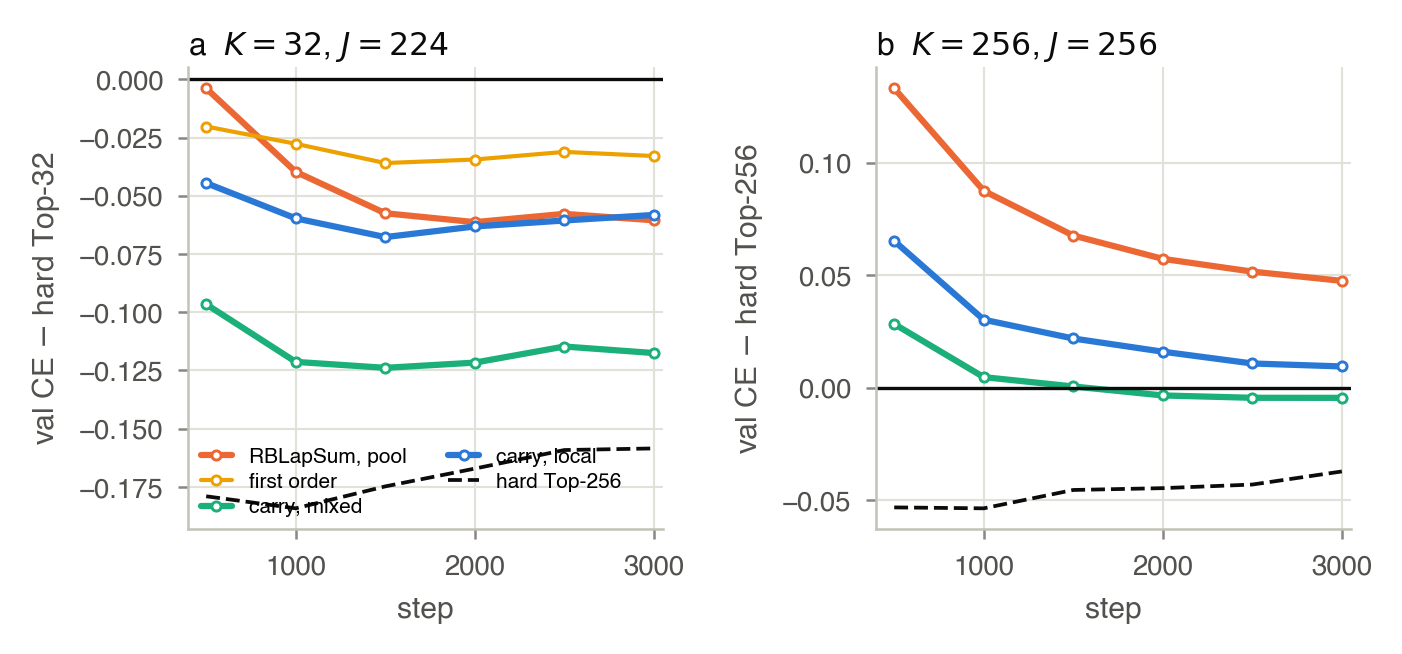
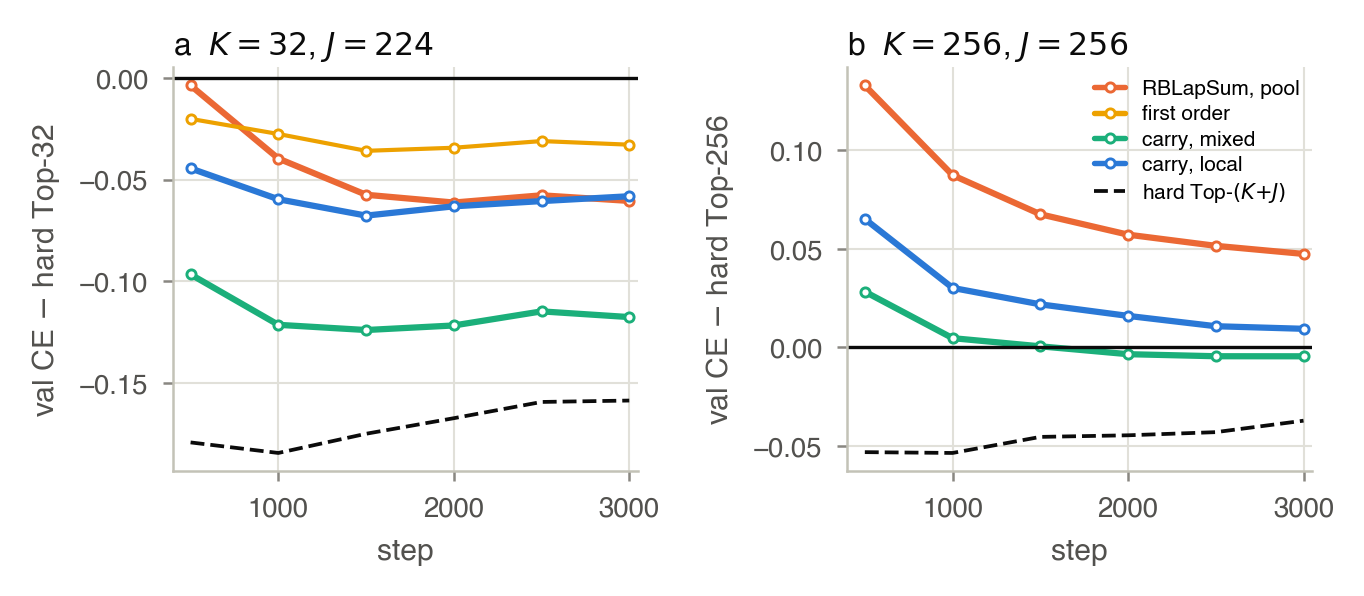
carry note: compressed theory, two-panel figures, K=256 mixed run statistics

diff --git a/docs/carry-surrogate.tex b/docs/carry-surrogate.tex
@@ -33,18 +33,17 @@ Runs \code{be\_cr\_*} (box bergen), configs \code{configs/cr\_kj/carry/}, scopes
 \section{The problem}
 
 With the code carried between blocks (\code{code\_residual}) hard Top-\(K'\) gains \(0.06\)--\(0.075\) nats at every
-\(K'\), while RBLapSum (\(K\) active, pool \(K{+}J\)) gains \(-0.03\) to \(+0.015\): at a matched active count it is
-worth \(0.047\) at \(K=32\) and loses \(0.02\)--\(0.03\) at \(K=128, 256\), no cell reaches hard Top-\((K{+}J)\), and its
-backward is the unstable part of the grid (\code{docs/kj-vs-hard-topk-code-residual.tex}).  The first-order scope
-removes the instability with a second backward pass and is \emph{worse} than the unmodified surrogate at every
-\(K=32\) cell (\(+0.007\) to \(+0.017\) at 20k).  This note locates the conflict between the surrogate and the carry
-and proposes the smallest change that removes it, at no cost.
+\(K'\) and RBLapSum (\(K\) active, pool \(K{+}J\)) gains \(-0.03\) to \(+0.015\): at a matched active count the
+surrogate is worth \(0.047\) at \(K=32\), loses \(0.02\)--\(0.03\) at \(K=128,256\), and its backward is the unstable
+part of the grid (\code{docs/kj-vs-hard-topk-code-residual.tex}).  The first-order scope removes the instability with
+a second backward pass and is \emph{worse} than the unmodified surrogate at every \(K=32\) cell (\(+0.007\) to
+\(+0.017\) at 20k).  This note locates the conflict and removes it at no cost.
 
 \section{Where the probabilities act}
 
 Gate \(\ell\) reads \(u_\ell=c_\ell+v_\ell\) (carried code plus the block's encoded contribution) and outputs
 \(c_{\ell+1}=M_\ell u_\ell\), \(M_\ell\) the Top-\(K\) mask.  Its output has two consumers, the carry
-\(u_{\ell+1}=c_{\ell+1}+v_{\ell+1}\) (a skip path) and the read \(x_{\ell+1}=\mathrm N(D_\ell c_{\ell+1})\) (a branch), so
+\(u_{\ell+1}=c_{\ell+1}+v_{\ell+1}\) (a skip path) and the read \(x_{\ell+1}=\mathrm N(D_\ell c_{\ell+1})\) (a branch):
 \begin{equation}
   \frac{\partial\mathcal L}{\partial u_\ell}=M_\ell\bigl(g^{\rm c}_{\ell+1}+r_{\ell+1}\bigr),\qquad
   g^{\rm c}_{\ell+1}=\frac{\partial\mathcal L}{\partial u_{\ell+1}},\quad
@@ -52,20 +51,19 @@ Gate \(\ell\) reads \(u_\ell=c_\ell+v_\ell\) (carried code plus the block's enco
   \label{eq:hard}
 \end{equation}
 (at the last gate \(r\) is the unembedding's gradient).  In the stream-carried stack the gate has only the second
-consumer: everything block \(\ell{+}1\) does, its own gate included, goes through \(D_\ell\).  RBLapSum relaxes the
-gate as a whole, \(M_\ell\to M_\ell+S_\ell\) with the \code{through\_rank\_kappa} support term \(S_\ell\) (kernel
+consumer: everything block \(\ell{+}1\) does, its own gate included, goes through \(D_\ell\).  RBLapSum relaxes the gate
+as a whole, \(M_\ell\to M_\ell+S_\ell\) with the \code{through\_rank\_kappa} support term \(S_\ell\) (kernel
 \(\kappa_i=e^{-|s_i-b|/T}/2T\); on the support \(S_{ii}=|u_i|\kappa_i\approx b/2T\) at the boundary).  In the stream
-stack \(S_\ell\) acts on \(r_{\ell+1}\) alone, and what reaches gate \(\ell{-}1\) has passed through \(E_\ell\), the
-block and \(D_{\ell-1}\), which mix the coordinates.  In the code stack it also acts on \(g^{\rm c}_{\ell+1}\), which
-already contains \(S_{\ell+1}g^{\rm c}_{\ell+2}\): along a coordinate near the boundary the backward multiplies
-\(1+|u|\kappa\) per gate.  The carry is a residual connection in code space; a residual connection trains because its
-backward is the identity, and a relaxation placed on the skip path compounds.  The conflict is \emph{where} the
-probabilities act, not the kernel: the same gates in the stream stack were never on a skip path.
+stack \(S_\ell\) acts on \(r_{\ell+1}\) alone and what reaches gate \(\ell{-}1\) has passed through \(E_\ell\), the block
+and \(D_{\ell-1}\), which mix the coordinates.  In the code stack it also acts on \(g^{\rm c}_{\ell+1}\), which already
+contains \(S_{\ell+1}g^{\rm c}_{\ell+2}\): along a coordinate near the boundary the backward multiplies \(1+|u|\kappa\)
+per gate.  The carry is a residual connection in code space, trainable because its backward is the identity; a
+relaxation placed on the skip path compounds.  The conflict is \emph{where} the probabilities act, not the kernel.
 
 \section{The carry-aware surrogate}
 
-Keep the skip path hard and relax the branch.  The gate's output is split into the copy the next gate carries and the
-copy the decoder reads (\code{\_CarryReadSplit}; forward and inference unchanged), and the backward is
+Keep the skip path hard, relax the branch: the gate's output is split into the copy the next gate carries and the
+copy the decoder reads (forward and inference unchanged), and
 \begin{equation}
   \frac{\partial\mathcal L}{\partial u_\ell}=M_\ell\bigl(g^{\rm c}_{\ell+1}+r_{\ell+1}\bigr)+S_\ell^{\!\top}\hat g_{\ell+1},
   \qquad
@@ -73,21 +71,21 @@ copy the decoder reads (\code{\_CarryReadSplit}; forward and inference unchanged
   \label{eq:carry}
 \end{equation}
 with \(H_\ell=M_\ell(r_{\ell+1}+H_{\ell+1})\) the downstream read gradients a coordinate reaches along the hard carry,
-\(R_\ell=r_{\ell+1}+\rho R_{\ell+1}\) all downstream reads weighted by a survival factor \(\rho\) per gate, and
-\(H=R=0\) above the last gate.  The support term is driven by read gradients only, so no kernel sees another gate's
-support term through the carry: the exponential products are gone, the terms of the gates above still reach gate
-\(\ell\) added through \(M_\ell\), and carry and update receive one gradient (R1 of
-\code{docs/rblapsum-code-residual.tex}).  The cost is two per-coordinate sums along the backward, no second pass.
-The drivers are the first-order loss change of one flip at gate \(\ell\) under three models of what follows: a flip
-changes \(c_{\ell+1,i}\) by \(\pm u_{\ell,i}\), which block \(\ell{+}1\) reads, and so do later blocks while the coordinate
-stays in the code.  \emph{Local} counts the next read only -- the stream stack's logic, and exactly the gradient of a
-model whose decoder reads a relaxed gate while the carry is hard.  \emph{Hard} follows the coordinate's actual
-downstream masks (an evicted feature's remaining run; for an inactive candidate almost always nothing).
-\emph{Persistent} assumes the entering coordinate survives each further gate with probability \(\rho\) (\(\rho=1\):
-to the end).  The \emph{mixed} scope uses hard for the active members and persistent for the inactive ones, the
-natural model on each side; \(\rho\) is measured in Section~\ref{sec:runs}.  Against the first-order estimator: that
-one needs the fully hard gradient at every gate, hence a second pass; here the carry is where the gradient is taken
-hard, and the reads still carry the gates above through the branch, as in the stream stack.
+\(R_\ell=r_{\ell+1}+\rho R_{\ell+1}\) every downstream read with a survival factor \(\rho\) per gate, \(H=R=0\) above
+the last gate.  The support term is driven by read gradients only, so no kernel sees another gate's support term
+through the carry: the products are gone, the terms of the gates above still reach gate \(\ell\), added, through
+\(M_\ell\), and carry and update receive one gradient (R1 of \code{docs/rblapsum-code-residual.tex}).  The cost is two
+per-coordinate sums along the backward; no second pass.  The drivers are the first-order loss change of one flip at
+gate \(\ell\) -- \(c_{\ell+1,i}\) changes by \(\pm u_{\ell,i}\), which block \(\ell{+}1\) reads, and later blocks read while
+the coordinate stays in the code -- under three models of what follows.  \emph{Local} counts the next read only (the
+stream stack's logic; exactly the gradient of a model whose decoder reads a relaxed gate while the carry is hard).
+\emph{Hard} follows the actual downstream masks (an evicted feature's remaining run; for an inactive candidate almost
+always nothing).  \emph{Persistent} lets the entering coordinate survive each further gate with probability \(\rho\).
+The \emph{mixed} scope uses hard for the active members and persistent for the inactive ones; \(\rho\) is measured
+below.  Unlike the first-order estimator, which needs the fully hard gradient at every gate and hence a second pass,
+the carry is where the gradient is taken hard, and the reads still carry the gates above through the branch, as in the
+stream stack.  (\code{rblapsum\_surrogate\_scope=carry\_local|carry\_hard|carry\_persistent|carry\_mixed},
+\code{rblapsum\_carry\_decay}=\(\rho\).)
 
 \section{Measurements}
 
@@ -176,7 +174,8 @@ model's code is the hard model's again -- one-gate survival \(0.57\), turnover \
 \(0.94\) (hard: \(0.62\), \(28\%\), \(0.93\); \code{pool}: \(0.40\), \(46\%\), \(0.89\)) -- and its gradient norm never
 exceeded 1.  The mixed scope goes further: \(+0.005\) at step 1000, below hard Top-256 from step 2000 and
 \(-0.0045\) at 3000 (\(1.736\) against \(1.741\)) -- a surrogate with 256 active features ahead of the hard model with
-the same count, which no code-carried cell of the grid achieved -- with hard Top-512 at \(-0.037\).
+the same count, which no code-carried cell of the grid achieved -- with hard Top-512 at \(-0.037\); its code is
+the hard model's too (survival \(0.61\), turnover \(30\%\), \(17\%\) of the final code carried from gate 0).
 \PH{K=128; the 10k continuations}
 
 \begin{figure}[t]
@@ -210,14 +209,30 @@ read at step 3000.  Bold: below every other surrogate of the row.}
 \section{What the measurements show}
 
 \textbf{The conflict is the placement, not the kernel.}  RBLapSum relaxes a gate whose output, in the code-carried
-stack, is also a skip connection; the relaxation is multiplied along the skip path and grows as \((1+b/2T)^{L}\)
-(Fig.~\ref{fig:init}).  Putting the probabilities where they were in the stream-carried stack, on what the decoder
-reads, and leaving the carry's backward the mask, removes the product exactly, in one backward pass, and gives the
-carry and the update one gradient.  \PH{training evidence}
+stack, is also a skip connection, and the relaxation is multiplied along the skip path, \((1+b/2T)\) per gate
+(Fig.~\ref{fig:init}).  Putting the probabilities where they were in the stream-carried stack -- on what the decoder
+reads -- and leaving the carry's backward the mask removes the product exactly, in one backward pass, with one gradient
+for carry and update.  Trained, the local scope keeps the unmodified surrogate's whole gain at \(K=32\) (first order,
+which also removes the product but at the price of a second pass, keeps half of it) and removes four fifths of its
+loss at \(K=256\), without a gradient spike in either cell.
 
-\textbf{The carry is used by a subset, and the unmodified surrogate trains it away.}  \PH{runs of the carry scopes}
+\textbf{The carry gives the surrogate something the stream stack could not: a downstream for the entry term.}  In
+the stream stack a candidate that enters at gate \(\ell\) is re-encoded by gate \(\ell{+}1\), so the next read is all
+there is to evaluate it against.  In the code stack an entering feature is carried, and the first-order value of
+letting it in is the sum of the reads it would reach.  The mixed scope evaluates the inactive candidates on that sum
+(\(\rho=1\)) and the active members on the reads their run actually reaches, and it doubles the gain at \(K=32\)
+(\(-0.118\): 32 active features at the loss of hard Top-128) and turns the loss at \(K=256\) into a gain
+(\(-0.005\) below hard Top-256, a model with the same active count).  Its surrogate energy equals the unmodified
+backward's (\(\sigma=0.74\) against \(0.70\) at \(K=32\)), delivered as a sum of single-flip terms instead of a
+product: the unmodified backward was not too strong, it was multiplying.
 
-\PH{large K}
+\textbf{The surrogate-trained model uses the carry only when the surrogate leaves it alone.}  The trained hard
+models carry about half of their support from gate to gate (one-gate survival \(0.5\)--\(0.6\), \(26\)--\(39\%\)
+turnover); the \code{pool}-trained ones re-select \(46\)--\(70\%\) of it at every gate and end with the stream stack's
+code, which is why the carry was worth nothing to them.  Every carry-scope model has the hard model's survival and
+turnover (Fig.~\ref{fig:runs}): the surrogate's support signal and the carry's persistence add instead of
+competing, and the measured survival (\(\rho\approx0.5\)) is also the natural value for the persistent chain
+(\PH{cm05}).
 
 \textbf{Scope.}  One seed, one configuration family (8 layers, \(N=1536\), \(T=2\), no output norm), screens of
 3000 steps with step-matched 20k-step baselines trained on a different machine of the same GPU generation; the

diff --git a/scripts/plot_carry.py b/scripts/plot_carry.py
@@ -74,46 +74,34 @@ def save(fig, name):
 # Figure 1: the backward along the carried code at initialization
 # --------------------------------------------------------------------------- #
 def fig_init():
-    fig, axes = plt.subplots(1, 3, figsize=(7.1, 2.0), gridspec_kw={"wspace": 0.42})
-    for ax, (kj, title) in zip(axes[:2], [("k32_j224", r"a  $K{=}32$, $J{=}224$, $T{=}2$"),
-                                          ("k256_j256", r"b  $K{=}256$, $J{=}256$, $T{=}2$")]):
+    fig, axes = plt.subplots(1, 2, figsize=(5.0, 1.75), gridspec_kw={"wspace": 0.4})
+    for ax, (kj, title) in zip(axes, [("k32_j224", r"a  $K{=}32$, $J{=}224$"),
+                                      ("k256_j256", r"b  $K{=}256$, $J{=}256$")]):
         hard = load(DATA, "init", f"init_{kj}_hard.json")
         h = [g["code_grad_rms"] for g in hard["gates"]]
         for key in ("pool", "fo", "ch", "cp", "cm", "cl"):
-            d = load(DATA, "init", f"init_{kj}_{key}.json")
-            if d is None:
-                continue
-            lab, color, ls = STYLE[key]
-            y = [g["code_grad_rms"] / hh for g, hh in zip(d["gates"], h)]
-            ax.plot(range(len(y)), y, ls, color=color, lw=1.5 if key in ("pool", "cl", "cm") else 1.0,
-                    label=lab)
+            for suffix, ls in (("", STYLE[key][2]), ("_t1", ":")):
+                if suffix and key not in ("pool", "cm", "cl"):
+                    continue
+                d = load(DATA, "init", f"init_{kj}_{key}{suffix}.json")
+                if d is None:
+                    continue
+                lab, color, _ = STYLE[key]
+                y = [g["code_grad_rms"] / hh for g, hh in zip(d["gates"], h)]
+                ax.plot(range(len(y)), y, ls, color=color,
+                        lw=1.5 if key in ("pool", "cl", "cm") and not suffix else 1.0,
+                        label=(lab if not suffix else None) if kj == "k32_j224" else None)
         ax.axhline(1.0, color=INK, lw=0.8)
         ax.set_yscale("log")
         ax.set_xticks(range(8))
-        ax.set_xlabel(r"gate $\ell$ (0 = input side, 7 = last)")
-        ax.set_ylabel(r"RMS $\partial\mathcal{L}/\partial c_{\ell+1}$ / hard")
+        ax.set_xlabel(r"gate $\ell$ (0 = input side)")
         ax.set_title(title)
-        if kj == "k32_j224":
-            ax.legend(loc="upper right", fontsize=5.4)
-    # (c) the kernel width: T = 1 versus T = 2 at K = 32
-    ax = axes[2]
-    hard = load(DATA, "init", "init_k32_j224_hard.json")
-    h = [g["code_grad_rms"] for g in hard["gates"]]
-    for key, suffix, ls in (("pool", "", "-"), ("pool", "_t1", ":"), ("cm", "", "-"), ("cm", "_t1", ":"),
-                            ("cl", "", "-"), ("cl", "_t1", ":")):
-        d = load(DATA, "init", f"init_k32_j224_{key}{suffix}.json")
-        if d is None:
-            continue
-        lab, color, _ = STYLE[key]
-        y = [g["code_grad_rms"] / hh for g, hh in zip(d["gates"], h)]
-        ax.plot(range(len(y)), y, ls, color=color, lw=1.3,
-                label=lab + (r", $T{=}1$" if suffix else r", $T{=}2$"))
-    ax.axhline(1.0, color=INK, lw=0.8)
-    ax.set_yscale("log")
-    ax.set_xticks(range(8))
-    ax.set_xlabel(r"gate $\ell$")
-    ax.set_title(r"c  $K{=}32$: kernel width")
-    ax.legend(loc="upper right", fontsize=5.2)
+    axes[0].set_ylabel(r"RMS $\partial\mathcal{L}/\partial c_{\ell+1}$ / hard")
+    from matplotlib.lines import Line2D
+    handles, labels = axes[0].get_legend_handles_labels()
+    handles.append(Line2D([], [], color=MUTED, ls=":", lw=1.0))
+    labels.append(r"same, $T{=}1$")
+    axes[0].legend(handles, labels, loc="upper right", fontsize=4.9, ncol=1)
     save(fig, "fig_init")
 
 
@@ -188,14 +176,20 @@ def fig_screens(max_step=3000):
     Ks = [K for K in (32, 128, 256) if any(run_of(K, k) in cv for k in ("cl", "cm"))]
     if not Ks:
         return
-    fig, axes = plt.subplots(1, len(Ks), figsize=(2.4 * len(Ks) + 0.2, 2.0),
+    fig, axes = plt.subplots(1, len(Ks), figsize=(2.35 * len(Ks) + 0.2, 1.75),
                              gridspec_kw={"wspace": 0.45}, squeeze=False)
+    keys = ("pool", "fo", "ch", "cp", "cm05", "cm", "cl")
     for ax, K, letter in zip(axes[0], Ks, "abc"):
-        delta_panel(ax, cv, K, ("pool", "fo", "ch", "cp", "cm", "cl"), max_step)
+        delta_panel(ax, cv, K, keys, max_step, show_pool_ref=True)
         ax.set_title(rf"{letter}  $K{{=}}{K}$, $J{{=}}{CELLS[K][0]}$")
         ax.set_xlim(400, max_step + 50)
-        if K == Ks[0]:
-            ax.legend(loc="lower left", fontsize=5.0, ncol=2)
+    # one legend, in the last panel, with proxies for every scope that appears anywhere
+    from matplotlib.lines import Line2D
+    present = [k for k in keys if any(run_of(K, k) in cv for K in Ks)]
+    handles = [Line2D([], [], color=STYLE[k][1], ls=STYLE[k][2], marker="o", ms=2.2, mfc="white",
+                      mew=0.7, lw=1.3, label=STYLE[k][0]) for k in present]
+    handles.append(Line2D([], [], color=INK, ls="--", lw=0.9, label=r"hard Top-$(K{+}J)$"))
+    axes[0][-1].legend(handles=handles, loc="upper right", fontsize=5.0, ncol=1)
     save(fig, "fig_screens")
 
 
@@ -222,7 +216,7 @@ def table_screens(steps=(1000, 2000, 3000)):
 # Figure 3: runs of the carried code (analysis/code_runs.py)
 # --------------------------------------------------------------------------- #
 def fig_runs():
-    fig, axes = plt.subplots(1, 3, figsize=(7.1, 1.95), gridspec_kw={"wspace": 0.45})
+    fig, axes = plt.subplots(1, 2, figsize=(5.0, 1.75), gridspec_kw={"wspace": 0.4})
     rows = [  # file stem, label, color, ls
         ("ma_cr_hard_k32_pnorm_step20000", r"hard Top-32, 20k", INK, "-"),
         ("ma_cr_hard_k32_pnorm_step4000", r"hard Top-32, 4k", INK, ":"),
@@ -243,7 +237,7 @@ def fig_runs():
             continue
         lab, color, _ = STYLE[suf]
         rows.append((stem, rf"{lab} ({K}, {J}), 3k", color, "-" if K == "32" else "--"))
-    for key, panel in (("survival", 0), ("evict_frac", 1), ("final_entry", 2)):
+    for key, panel in (("survival", 0), ("evict_frac", 1)):
         ax = axes[panel]
         for stem, lab, color, ls in rows:
             d = load(DATA, "runs", stem + ".json")
@@ -259,14 +253,11 @@ def fig_runs():
     axes[0].set_ylabel(r"P(still in the support)")
     axes[0].set_ylim(0, 1.02)
     axes[0].set_title("a  survival of an entered feature")
-    axes[0].legend(fontsize=4.6, loc="upper right", ncol=1)
+    axes[0].legend(fontsize=4.3, loc="upper right", ncol=1)
     axes[1].set_xlabel(r"gate $\ell$")
     axes[1].set_ylabel(r"share of gate $\ell{-}1$'s support evicted")
     axes[1].set_ylim(0, 0.8)
     axes[1].set_title("b  turnover per gate")
-    axes[2].set_xlabel(r"gate of entry")
-    axes[2].set_ylabel("share of the final code")
-    axes[2].set_title("c  final code by gate of entry")
     save(fig, "fig_runs")
 
 
